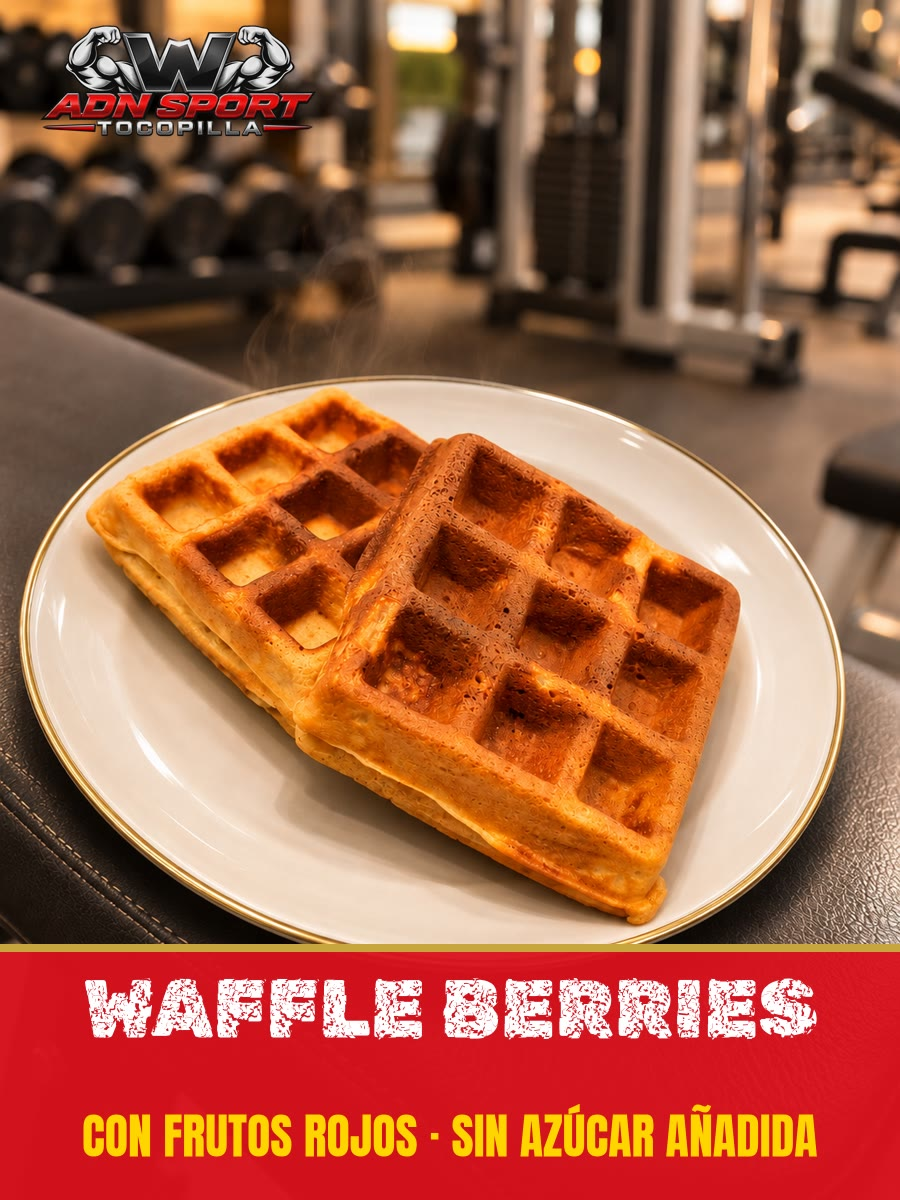
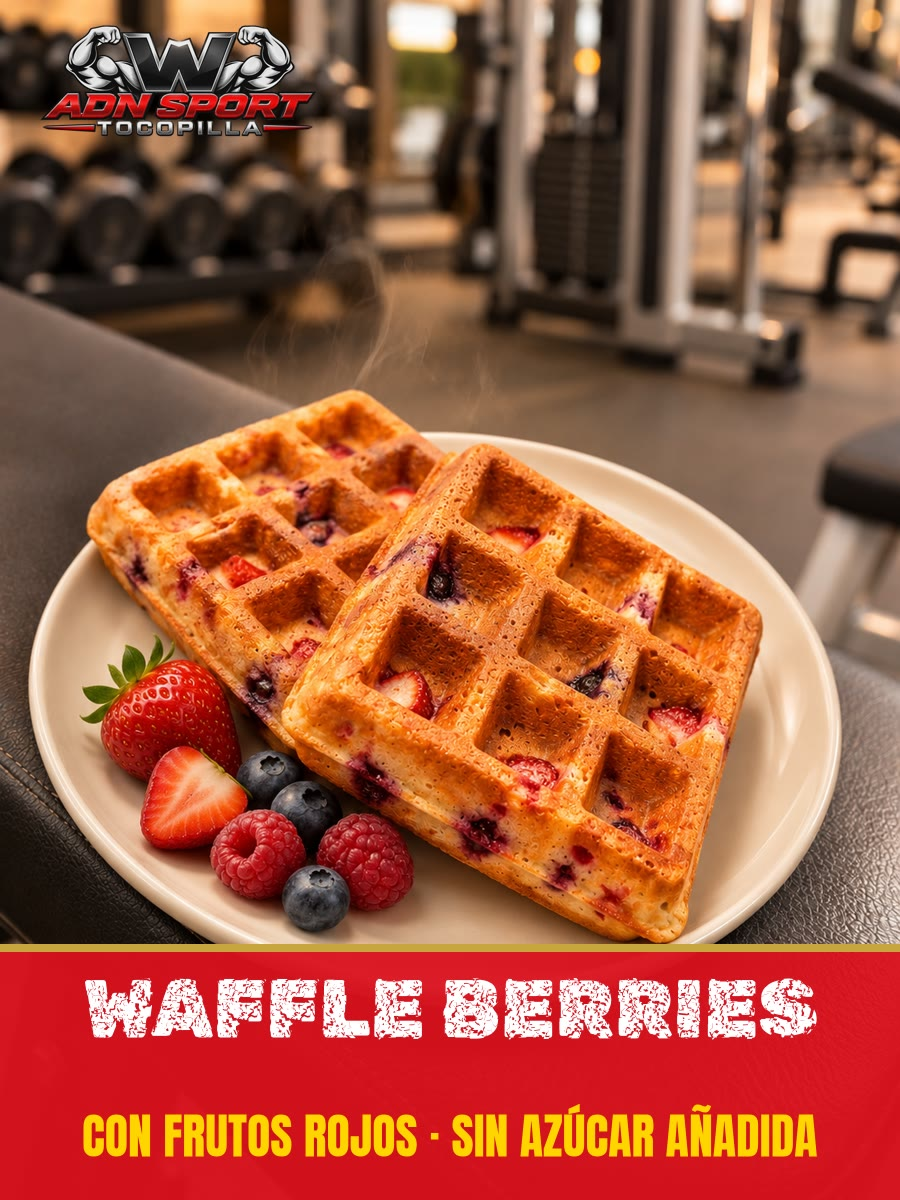
Tienda: foto real del waffle de berries
Claude-Session: https://claude.ai/code/session_013ZgZPSRHEDhMsqmx8Km842

diff --git a/tienda.html b/tienda.html
@@ -261,7 +261,7 @@ function hoyISO(){ return new Intl.DateTimeFormat("en-CA", { timeZone:"America/S
 function ahoraTxt(){ var f = new Intl.DateTimeFormat("sv-SE", { timeZone:"America/Santiago", year:"numeric", month:"2-digit", day:"2-digit", hour:"2-digit", minute:"2-digit" }).format(new Date()); return f.replace("T", " ").slice(0, 16); }
 function normTxt(s){ return String(s || "").toUpperCase().normalize("NFD").replace(/[̀-ͯ]/g, ""); }
 /* Al cambiar una foto en img/tienda/ (mismo nombre), subir FOTO_V para que los teléfonos no muestren la antigua. */
-var FOTO_V = "56";
+var FOTO_V = "57";
 function fotoUrl(f){ return f ? (/^data:/.test(f) ? f : f + (f.indexOf("?") < 0 ? "?v=" + FOTO_V : "")) : ""; }
 /* 📷 Foto subida desde el celular (27-10-2026, la dueña: "¿no lo puedo hacer todo sin depender de ti?"): se achica a
    máx. 480 × 640, se le pone el logo del gimnasio arriba a la izquierda (34 % del ancho, como las demás fotos) y se guarda
@@ -536,7 +536,7 @@ setInterval(function(){ if(pend.length) enviarPendientes(); }, 30000);
    el computador"): los datos se vuelven a pedir a la planilla cada 30 s mientras la página está a la vista (sin una ficha
    abierta), y cada minuto se revisa tienda-version.txt: si hay una versión nueva de la página, se recarga sola.
    Cada vez que se cambie tienda.html, subir TIENDA_VERSION y tienda-version.txt juntos (AAAAMMDDNN). */
-var TIENDA_VERSION = "2026110511";
+var TIENDA_VERSION = "2026110512";
 setInterval(function(){ if(clave && !document.hidden && $("velo").hidden && !$("app").hidden) enviarPendientes().then(function(){ cargar(true); }); }, 30000);
 function revisarVersion(){
  fetch("tienda-version.txt?t=" + Date.now(), { cache:"no-store" }).then(function(r){ return r.ok ? r.text() : ""; }).then(function(v){

diff --git a/tarjeta.html b/tarjeta.html
@@ -2474,7 +2474,7 @@ function renderEvolucion(s){
     oculta con «Ya no lo vendo» no llega. «Lo quiero» abre una ventanita (foto grande, cantidad, total)
     y después WhatsApp a Sara con el pedido. El stock solo baja cuando ella cobra en la tienda.
     Al cambiar una foto de img/tienda/ con el mismo nombre, subir TIENDA_FOTO_V junto con FOTO_V de tienda.html. */
- var TIENDA_FOTO_V = "56", TIENDA_WSP = "56975196394", TIENDA_SITIO = "https://encaladasara363-lang.github.io/wgymadnsport-archivos/";
+ var TIENDA_FOTO_V = "57", TIENDA_WSP = "56975196394", TIENDA_SITIO = "https://encaladasara363-lang.github.io/wgymadnsport-archivos/";
  /* Interruptor (25-10-2026, la dueña: "no quiero publicar la tienda el lunes porque compré ropa en Shein y no sé
     cuándo me llegaría"): en false la tarjeta no muestra la tienda aunque la Versión 25 esté instalada.
     Ponerlo en true (y subir TARJETA_VERSION) solo cuando ella lo pida. */
@@ -2689,7 +2689,7 @@ function renderEvolucion(s){
     compara TARJETA_VERSION con tarjeta-version.txt del sitio y, si hay
     una más nueva, la página se recarga sola (el nombre ya aparece
     puesto). Al cambiar tarjeta.html, subir los DOS números juntos. */
- var TARJETA_VERSION = "2026110516", ultimaRevisionVersion = 0;
+ var TARJETA_VERSION = "2026110517", ultimaRevisionVersion = 0;
 function recargarFresco_(v){
  /* Recarga pidiendo la página nueva (11-10-2026): location.reload() podía traer la copia
     guardada del teléfono (GitHub guarda la página ~10 min) y el socio seguía con la versión

diff --git a/CLAUDE.md b/CLAUDE.md
@@ -1635,7 +1635,7 @@ productos» y «Tienda movimientos», acciones `tienda*` de `docs/apps-script/In
 - **🍹 Categoría «Smoothies» (05-11-2026, la dueña: "una sección de smoothies… unos 10 sabores", el primero el Choco Banana Cream):** en `CATS` de `tienda.html`, `TIENDA_ICONOS` de `tarjeta.html` y `SIN_APARTAR`; la vitrina cerrada dice «🍹 Smoothies proteicos». Todos los sabores salen de las porciones del producto «Tarro de proteína …» (Suplementos, stock = porciones de 30 g; `USA_PORCION` `/^smoothie/` → `/^tarro de prote/`); el tarro no se muestra a los socios (la tarjeta lo saca de la vitrina) y cada smoothie toma su stock. Los nombres empiezan con «Smoothie proteico …»; cada sabor lleva su línea en `TIENDA_MACROS`. Un solo código para todos: `CODIGOS_GRUPO` `"2004500000001": "Smoothies"` («🍹 ¿Qué sabor?» al escanear); etiquetas de 24 por hoja de 5 × 7 pulgadas con «SMOOTHIES $4.500», leídas con ZXing. El ganador de masa también sale del tarro (`/^(tarro de prote|batido de prote)/`).
 - **🍫 Barrita Choco Maní — YA NO SE VENDE desde el 05-11-2026 (la dueña: "las barritas no las haré más"; se oculta en el inventario con «🗑 Ya no lo vendo»; no volver a ofrecerla). Era (03-11-2026, afiche de la dueña + logo arriba a la izquierda al 22 %, como la creatina: `img/tienda/barrita-choco-mani.jpg`):** Snacks, 28 g, chocolate sin azúcar con almendras y maní; costo $1.000, venta $2.000; código propio 200….
 - **🧇 Waffle de arroz, avena y dátil (05-11-2026, receta casera de la dueña, sin topping):** Snacks, 1 waffle belga de su waflera giratoria (≈130 g de masa: harina de arroz, avena, dátil, leche sin lactosa, 12 g de leche en polvo y 30 g de yogur griego por media receta, huevo, aceite de coco); costo ≈$580, venta $1.000 (ella eligió ese precio para vender más), 10 unidades, código propio 200…; foto `img/tienda/waffle-arroz-avena-datil.jpg` (ChatGPT: plato blanco con borde dorado sobre el banco negro, + logo; cambiada el mismo día, FOTO_V 51). Macros en `TIENDA_MACROS` (`/^waffle/`): ≈355 kcal · 12 P · 48 C · 13,5 G; contiene huevo y leche.
-- **🧇 Categoría «Waffles» (06-11-2026, la dueña hizo waffles de berries, almendras y cacao y quiere un solo código):** en `CATS` de `tienda.html`, `TIENDA_ICONOS` de `tarjeta.html` y `SIN_APARTAR`; la vitrina cerrada dice «🧇 Waffles caseros sin azúcar añadida». Un solo código para todos los sabores: `CODIGOS_GRUPO` `"2000000100012": "Waffles"` (el mismo de la etiqueta ya impresa del waffle de arroz) → «¿Qué sabor?» al escanear. Los nombres empiezan con «Waffle de …» ($1.000 cada uno). Etiquetas 5 × 7 pulgadas: 8 por sabor con el nombre (WAFFLE BERRIES / ALMENDRAS / CACAO). Los macros de `TIENDA_MACROS` (`/^waffle de arroz/`) son solo del de arroz, avena y dátil; cada sabor nuevo necesita su línea cuando la dueña mande la receta. Fotos provisorias `img/tienda/waffle-berries.jpg`, `waffle-almendras.jpg` y `waffle-cacao.jpg` (la foto del plato con franja roja/dorada con el sabor; ya traen el logo) hasta que la dueña mande las de ChatGPT con cada sabor a la vista.
+- **🧇 Categoría «Waffles» (06-11-2026, la dueña hizo waffles de berries, almendras y cacao y quiere un solo código):** en `CATS` de `tienda.html`, `TIENDA_ICONOS` de `tarjeta.html` y `SIN_APARTAR`; la vitrina cerrada dice «🧇 Waffles caseros sin azúcar añadida». Un solo código para todos los sabores: `CODIGOS_GRUPO` `"2000000100012": "Waffles"` (el mismo de la etiqueta ya impresa del waffle de arroz) → «¿Qué sabor?» al escanear. Los nombres empiezan con «Waffle de …» ($1.000 cada uno). Etiquetas 5 × 7 pulgadas: 8 por sabor con el nombre (WAFFLE BERRIES / ALMENDRAS / CACAO). Los macros de `TIENDA_MACROS` (`/^waffle de arroz/`) son solo del de arroz, avena y dátil; cada sabor nuevo necesita su línea cuando la dueña mande la receta. Foto de berries `img/tienda/waffle-berries.jpg` hecha en ChatGPT (06-11-2026, + logo + franja; 2 unidades). Fotos provisorias `waffle-almendras.jpg` y `waffle-cacao.jpg` (la foto del plato con franja roja/dorada con el sabor; ya traen el logo) hasta que la dueña mande las de ChatGPT con cada sabor a la vista.
 - **💪 Creatina por porción en bolsita de 5 g (03-11-2026, afiche de la dueña + logo arriba a la izquierda, más chico (22 %) para no tapar «CREATINA»: `img/tienda/creatina-por-porcion-bolsita.jpg`):** Suplementos, venta $1.000; costo $104 (bolsa OstroVit 100 % Creatine Monohydrate natural de 1 kg a $20.840 ÷ 200 bolsitas de 5 g, sin contar la bolsita); 1 bolsita = 1 unidad del stock.
 - **🧊 Pre entreno granizado Fruit Punch (03-11-2026, afiche de la dueña con el logo: `img/tienda/pre-entreno-granizado-fruit-punch.jpg`):** Bebestibles, costo $1.000 (porción + hielo + vaso), vaso a $3.000, «+ Creatina $1.000» (en 🛒 Vender y en la ventanita de la tarjeta). No lleva stock propio: cada vaso descuenta 1 porción del tarro «Pre entreno Mr Hyde Signature Fruit Punch» (`USA_PORCION` en `tienda.html`; la vitrina de la tarjeta toma el stock de ese tarro). Solo adultos, no apto en embarazo ni lactancia.
 - **👖 Pantalón deportivo gris jaspeado con franjas negras (03-11-2026):** Ropa mujer, talla S, pierna ancha, «DIRECTION» en el muslo; costo $10.000, venta $15.000, 1 unidad; foto `img/tienda/pantalon-deportivo-gris-franjas-negras.jpg` (afiche rosado de la dueña, ya trae el logo).
